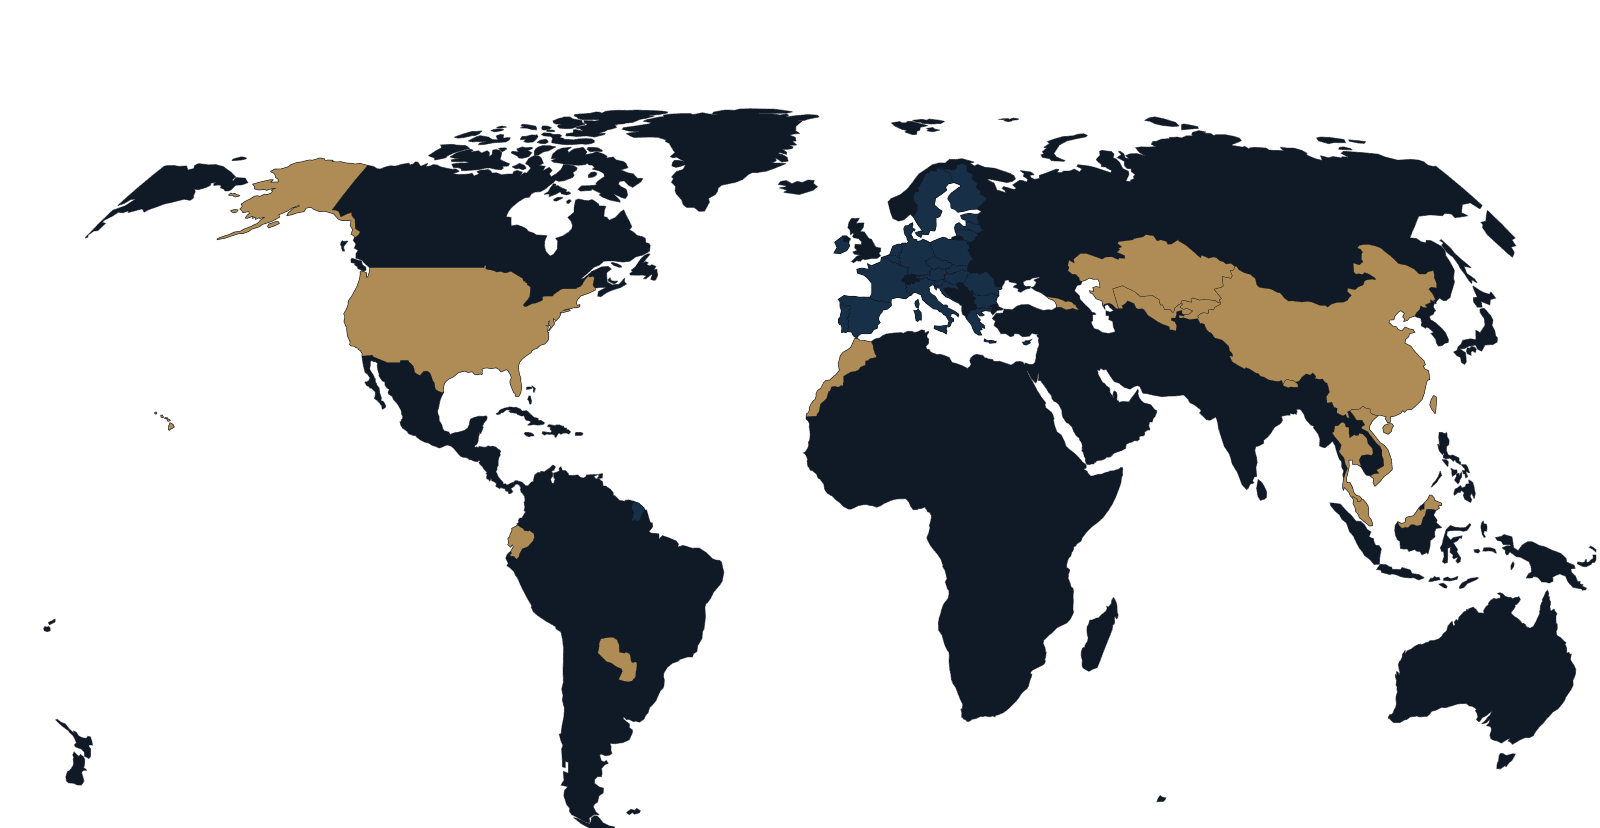
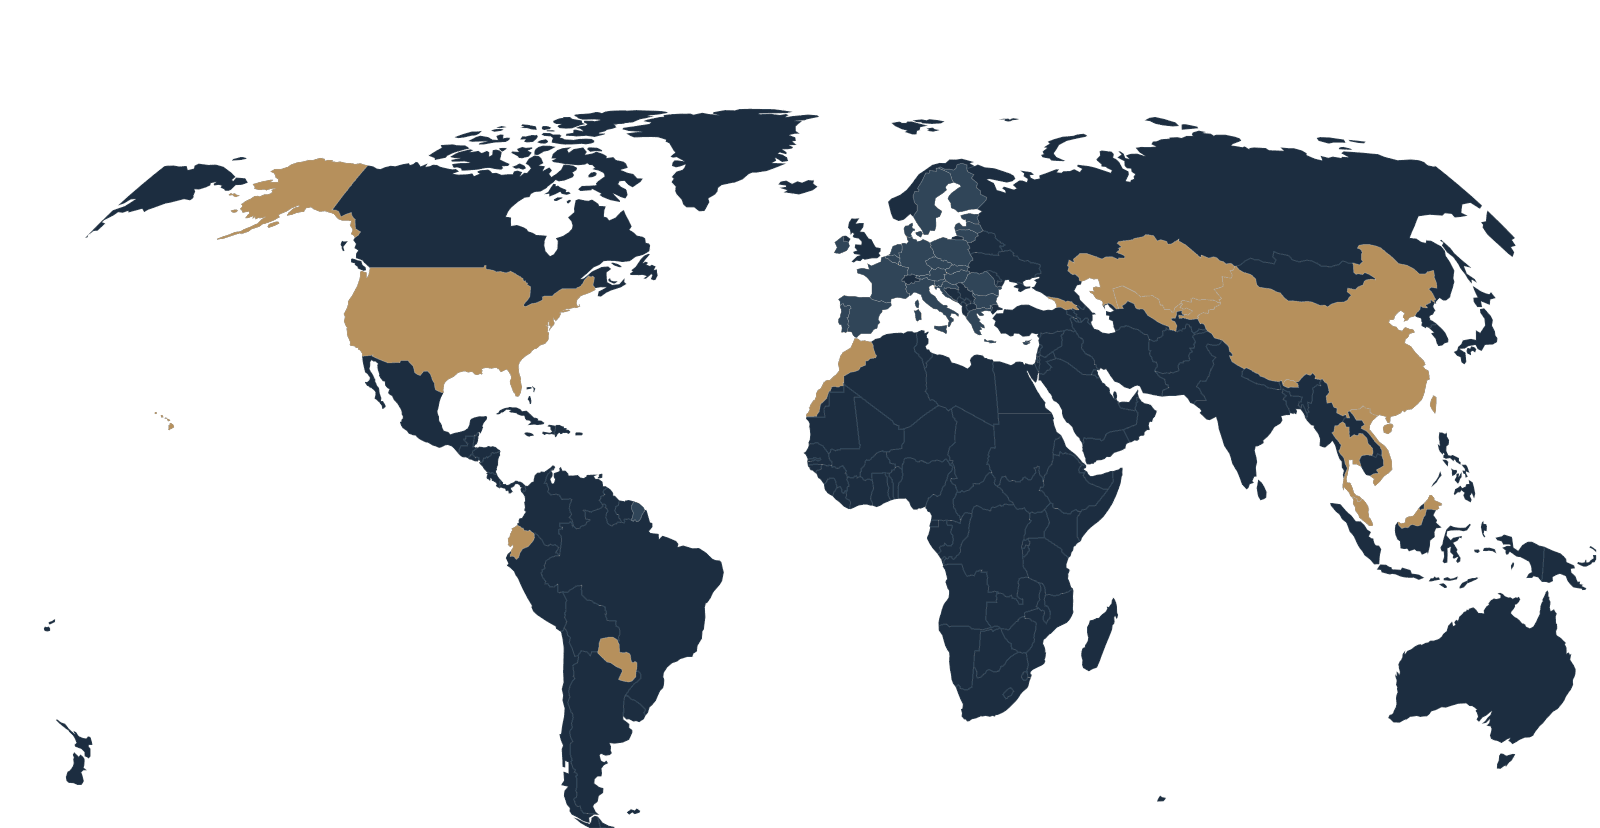
rev. 14 sep v3

diff --git a/css/style.css b/css/style.css
@@ -319,25 +319,21 @@ a {
   list-style: none;
   margin: 0;
   padding: 0;
-  display: grid;
-  grid-template-columns: repeat(3, 1fr);
-  gap: 0;
+  display: flex;
+  flex-wrap: wrap;
   max-width: var(--max-width);
   border-top: 1px solid var(--line);
   border-left: 1px solid var(--line);
 }
 
 .grid-list li {
+  flex: 1 1 33.333%;
+  box-sizing: border-box;
   color: var(--ivory);
   padding: 14px 18px;
   border-bottom: 1px solid var(--line);
   border-right: 1px solid var(--line);
   font-size: 0.95rem;
-}
-
-.grid-list li:last-child {
-  grid-column: 1 / -1;
-  text-align: center;
 }
 
 /* Pull statement (Why We're Different) */
@@ -480,8 +476,8 @@ a {
     border-top: 1px solid var(--line);
   }
 
-  .grid-list {
-    grid-template-columns: repeat(2, 1fr);
+  .grid-list li {
+    flex-basis: 50%;
   }
 
   .hero {
@@ -490,12 +486,8 @@ a {
 }
 
 @media (max-width: 480px) {
-  .grid-list {
-    grid-template-columns: 1fr;
-  }
-
-  .grid-list li:last-child {
-    text-align: left;
+  .grid-list li {
+    flex-basis: 100%;
   }
 
   .footer-inner {

diff --git a/index.html b/index.html
@@ -138,6 +138,7 @@
         <li>Ecuador</li>
         <li>Paraguay</li>
         <li>United States of America</li>
+        <li>Morocco</li>
         <li>Various EU countries</li>
       </ul>
       <p class="note">
